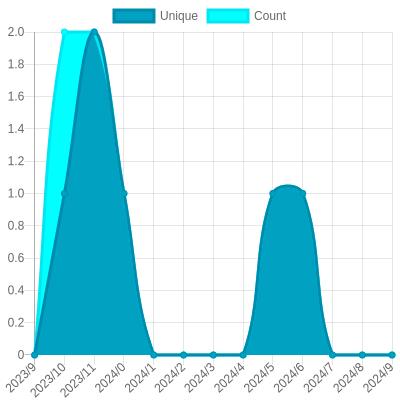
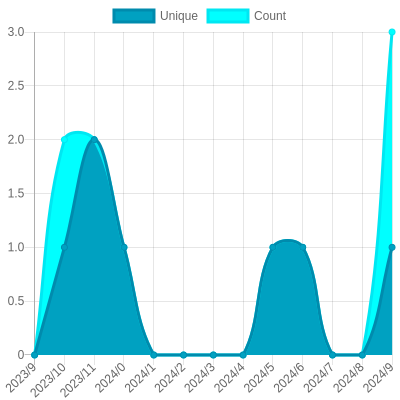
Update views

diff --git a/readme/314094375/year.md b/readme/314094375/year.md
@@ -23,10 +23,10 @@
 			<code>2023/10/1</code>
 		</td>
 		<td>
-			<code>0</code>
+			<code>1</code>
 		</td>
 		<td>
-			<code>0</code>
+			<code>3</code>
 		</td>
 	</tr>
 	<tr>
@@ -164,7 +164,7 @@
 </table>
 
 </details>
-<small><i>Last updated on 2023/10/12 6:17 AM UTC</i></small>
+<small><i>Last updated on 2023/10/12 12:25 PM UTC</i></small>
 
 ## ✂Copy and 📋 Paste
 ### SVG Badge

diff --git a/README.md b/README.md
@@ -69,7 +69,7 @@ The project created and maintained by [gayanvoice](https://github.com/gayanvoice
 	</tr>
 </table>
 
-<small><i>Last updated on 2023/10/12 6:17 AM UTC</i></small>
+<small><i>Last updated on 2023/10/12 12:25 PM UTC</i></small>
 
 ## ✂Copy and 📋 Paste
 ### Total Views Badge

diff --git a/readme/409135995/year.md b/readme/409135995/year.md
@@ -164,7 +164,7 @@
 </table>
 
 </details>
-<small><i>Last updated on 2023/10/12 6:17 AM UTC</i></small>
+<small><i>Last updated on 2023/10/12 12:25 PM UTC</i></small>
 
 ## ✂Copy and 📋 Paste
 ### SVG Badge

diff --git a/readme/409164432/year.md b/readme/409164432/year.md
@@ -164,7 +164,7 @@
 </table>
 
 </details>
-<small><i>Last updated on 2023/10/12 6:17 AM UTC</i></small>
+<small><i>Last updated on 2023/10/12 12:25 PM UTC</i></small>
 
 ## ✂Copy and 📋 Paste
 ### SVG Badge
